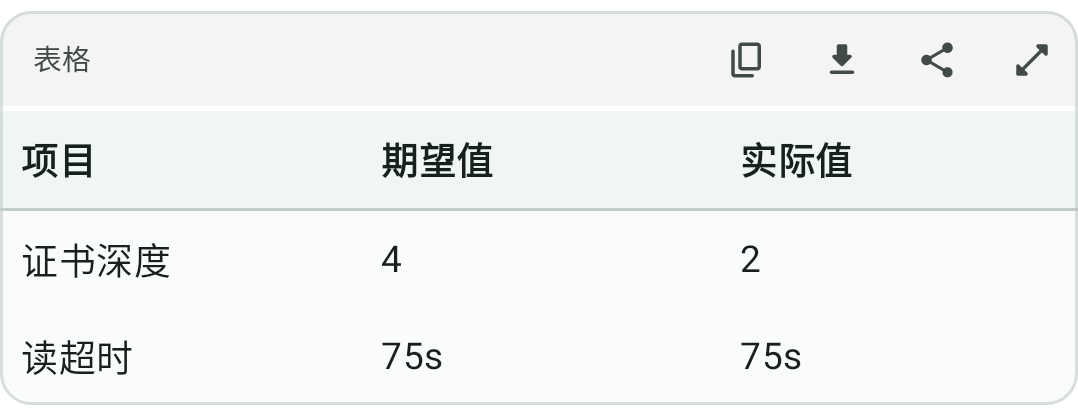
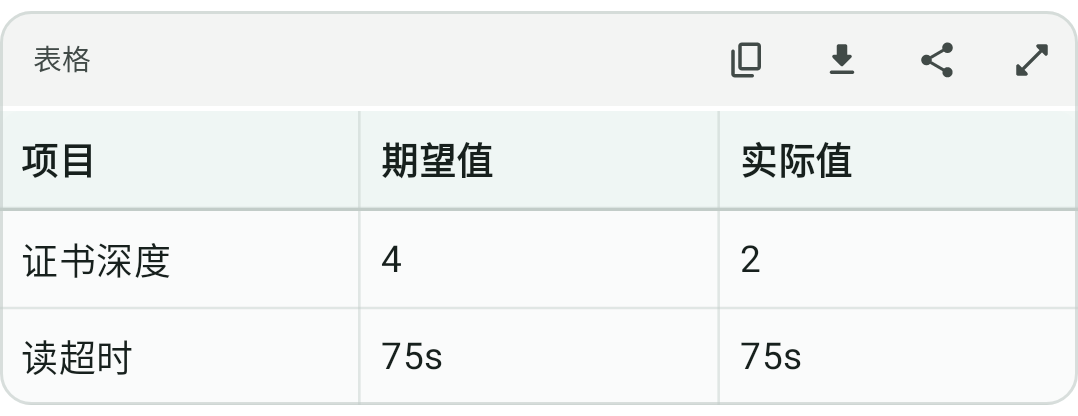
fix(android): table viewer rotation/immersive; grid lines; send-driven scroll
- Landscape toggle no longer bounces back with auto-rotate off: the
  orientation reset moved from the composition-teardown hook (which also
  fired during rotation-triggered Activity recreation) to the explicit
  close paths only. Verified on-device with rotation locked: forced
  landscape holds, and closing hands orientation back to the sensor.
- Fullscreen viewer is genuinely fullscreen: edge-to-edge dialog window
  (decorFitsSystemWindows = false) plus immersive system-bar hiding on
  the DIALOG's own window (hiding them on the Activity window does
  nothing while the dialog holds focus); bars return transiently by edge
  swipe and automatically on close.
- Tables draw a faint full grid (outlineVariant @ 45%): per-row bottom
  hairline plus column separators at cell boundaries (cell count read
  from the GFM row node), so wrapped multi-line cells read unambiguously.
- Send-to-bottom is now driven by the send action itself (a tick bumped
  in submit()) instead of inferring "user sent" from the last user
  turn's content-derived render key — background history reconciliation
  (text normalization, image hydration, occurrence shifts) could nudge
  that key and yank a reader mid-history to the bottom.

Changed region(s): [[0.0, 0.7188, 1.0, 0.75]]

diff --git a/android/app/src/main/java/com/hermes/client/ui/chat/ChatComponents.kt b/android/app/src/main/java/com/hermes/client/ui/chat/ChatComponents.kt
@@ -22,6 +22,9 @@ import androidx.compose.foundation.layout.height
 import androidx.compose.foundation.layout.padding
 import androidx.compose.foundation.layout.widthIn
 import androidx.compose.foundation.layout.wrapContentSize
+import androidx.compose.foundation.layout.windowInsetsPadding
+import androidx.compose.foundation.layout.WindowInsets
+import androidx.compose.foundation.layout.displayCutout
 import androidx.compose.foundation.layout.width
 import androidx.compose.foundation.lazy.LazyColumn
 import androidx.compose.foundation.lazy.itemsIndexed
@@ -90,6 +93,7 @@ import kotlinx.coroutines.launch
 import androidx.compose.ui.Alignment
 import androidx.compose.ui.Modifier
 import androidx.compose.ui.draw.clip
+import androidx.compose.ui.draw.drawBehind
 import androidx.compose.ui.draw.drawWithContent
 import androidx.compose.ui.graphics.layer.drawLayer
 import androidx.compose.ui.draw.alpha
@@ -169,7 +173,7 @@ fun ChatMessageList(
     onFileOpen: (ChatFile) -> Unit = {},
     onFileShare: (ChatFile) -> Unit = {},
     highlightIndex: Int? = null,
-    externalScrollActive: Boolean = false,
+    scrollToBottomTick: Long = 0L,
     onBlankAreaTap: () -> Unit = {},
 ) {
     val language = LocalAppLanguage.current
@@ -276,19 +280,13 @@ fun ChatMessageList(
         }
     }
 
-    // Sending always returns to the bottom, even from deep in history — it is the user's own
-    // action. Keyed on the newest USER turn's stable render key, not raw list size, so history
-    // reconciliation and session-resume backfill cannot fake it.
-    val lastTurnKey = displayKeys.lastOrNull()
-    val lastTurnIsUser = displayMessages.lastOrNull()?.role == Role.USER
-    var followedUserTurnKey by remember(sessionId) { mutableStateOf<String?>(null) }
-    LaunchedEffect(lastTurnKey, lastTurnIsUser) {
-        if (!lastTurnIsUser || lastTurnKey == null) return@LaunchedEffect
-        val previous = followedUserTurnKey
-        followedUserTurnKey = lastTurnKey
-        if (previous != null && previous != lastTurnKey && !externalScrollActive) {
-            bottomRequests.trySend(Unit)
-        }
+    // Sending returns to the bottom because the USER pressed send — driven directly by that
+    // action via [scrollToBottomTick]. The previous inference (watching the last user turn's
+    // content-derived render key) misfired whenever background history reconciliation nudged
+    // that key (text normalization, image metadata hydration, occurrence shifts), yanking a
+    // reader mid-history to the bottom. Data changes must never steal the viewport.
+    LaunchedEffect(scrollToBottomTick) {
+        if (scrollToBottomTick > 0L) bottomRequests.trySend(Unit)
     }
 
     // Search-highlight navigation, mapped from turn order to the reversed list order. The size is
@@ -1206,15 +1204,32 @@ private fun chatMarkdownComponents(onOpenTableFullscreen: (String) -> Unit): Mar
 /** The styled table body shared by the in-chat card and the fullscreen dialog. */
 @Composable
 private fun StyledMarkdownTable(content: String, node: org.intellij.markdown.ast.ASTNode, style: TextStyle) {
+    // Faint full grid (WorkBuddy-style): light enough to stay quiet, present enough that a
+    // wrapped multi-line cell reads unambiguously as one column.
+    val gridColor = MaterialTheme.colorScheme.outlineVariant.copy(alpha = 0.45f)
+    fun Modifier.tableGrid(cells: Int, drawTop: Boolean = false): Modifier = drawBehind {
+        val stroke = 1.dp.toPx()
+        if (drawTop) drawLine(gridColor, Offset(0f, 0f), Offset(size.width, 0f), stroke)
+        drawLine(gridColor, Offset(0f, size.height), Offset(size.width, size.height), stroke)
+        if (cells > 1) {
+            val cellWidth = size.width / cells
+            for (i in 1 until cells) {
+                val x = cellWidth * i
+                drawLine(gridColor, Offset(x, 0f), Offset(x, size.height), stroke)
+            }
+        }
+    }
+    fun cellCount(rowNode: org.intellij.markdown.ast.ASTNode): Int =
+        rowNode.children.count { it.type == org.intellij.markdown.flavours.gfm.GFMTokenTypes.CELL }.coerceAtLeast(1)
     com.mikepenz.markdown.compose.elements.MarkdownTable(
         content,
         node,
         style = style,
         headerBlock = { c, header, tableWidth, s ->
             Box(
-                Modifier.background(
-                    MaterialTheme.colorScheme.surfaceVariant.copy(alpha = 0.65f),
-                ),
+                Modifier
+                    .background(MaterialTheme.colorScheme.surfaceVariant.copy(alpha = 0.65f))
+                    .tableGrid(cellCount(header)),
             ) {
                 com.mikepenz.markdown.compose.elements.MarkdownTableHeader(
                     c,
@@ -1228,13 +1243,15 @@ private fun StyledMarkdownTable(content: String, node: org.intellij.markdown.ast
             }
         },
         rowBlock = { c, row, tableWidth, s ->
-            com.mikepenz.markdown.compose.elements.MarkdownTableRow(
-                c,
-                row,
-                tableWidth,
-                s,
-                maxLines = Int.MAX_VALUE,
-            )
+            Box(Modifier.tableGrid(cellCount(row))) {
+                com.mikepenz.markdown.compose.elements.MarkdownTableRow(
+                    c,
+                    row,
+                    tableWidth,
+                    s,
+                    maxLines = Int.MAX_VALUE,
+                )
+            }
         },
     )
 }
@@ -1423,28 +1440,48 @@ internal fun TableFullscreenDialog(raw: String, onDismiss: () -> Unit) {
     var exportAction by remember { mutableStateOf<TableExportAction?>(null) }
     val isLandscape =
         LocalConfiguration.current.orientation == android.content.res.Configuration.ORIENTATION_LANDSCAPE
-    // Leaving the viewer always hands orientation back to the sensor, including dismiss-by-back
-    // while in forced landscape.
-    androidx.compose.runtime.DisposableEffect(Unit) {
-        onDispose {
-            activity?.requestedOrientation =
-                android.content.pm.ActivityInfo.SCREEN_ORIENTATION_UNSPECIFIED
-        }
+    // Orientation is reset ONLY on the explicit close paths (button / back-dismiss). The previous
+    // composition-teardown hook also fired during the rotation-triggered Activity recreation and
+    // yanked a freshly forced landscape straight back to portrait when auto-rotate was off.
+    fun close() {
+        activity?.requestedOrientation =
+            android.content.pm.ActivityInfo.SCREEN_ORIENTATION_UNSPECIFIED
+        onDismiss()
     }
     Dialog(
-        onDismissRequest = onDismiss,
-        properties = DialogProperties(usePlatformDefaultWidth = false),
+        onDismissRequest = { close() },
+        properties = DialogProperties(usePlatformDefaultWidth = false, decorFitsSystemWindows = false),
     ) {
+        // Immersive while viewing: the DIALOG owns its own window (hiding bars on the Activity
+        // window does nothing while the dialog holds focus). Swipe from an edge brings them
+        // back transiently; closing the dialog restores them automatically with the window.
+        val dialogView = androidx.compose.ui.platform.LocalView.current
+        LaunchedEffect(Unit) {
+            val window = (dialogView.parent as? androidx.compose.ui.window.DialogWindowProvider)?.window
+                ?: return@LaunchedEffect
+            val controller = androidx.core.view.WindowCompat.getInsetsController(window, dialogView)
+            controller.systemBarsBehavior =
+                androidx.core.view.WindowInsetsControllerCompat.BEHAVIOR_SHOW_TRANSIENT_BARS_BY_SWIPE
+            controller.hide(androidx.core.view.WindowInsetsCompat.Type.systemBars())
+        }
         Surface(
             color = MaterialTheme.colorScheme.background,
             modifier = Modifier.fillMaxSize(),
         ) {
-            Column(Modifier.fillMaxSize()) {
+            Column(
+                Modifier
+                    .fillMaxSize()
+                    // Edge-to-edge window: keep interactive chrome clear of cutouts/bars while the
+                    // background paints the full screen.
+                    .windowInsetsPadding(
+                        androidx.compose.foundation.layout.WindowInsets.displayCutout,
+                    ),
+            ) {
                 Row(
                     Modifier.fillMaxWidth().padding(horizontal = 8.dp, vertical = 6.dp),
                     verticalAlignment = Alignment.CenterVertically,
                 ) {
-                    TextButton(onClick = onDismiss) { Text(localized(language, "关闭", "Close")) }
+                    TextButton(onClick = { close() }) { Text(localized(language, "关闭", "Close")) }
                     Text(
                         localized(language, "表格", "Table"),
                         style = MaterialTheme.typography.titleMedium,

diff --git a/android/app/src/main/java/com/hermes/client/ui/chat/ChatScreen.kt b/android/app/src/main/java/com/hermes/client/ui/chat/ChatScreen.kt
@@ -171,6 +171,8 @@ fun ChatScreen(
     // saveable) because anything living inside the markdown tree vanishes during the re-parse
     // window on rotation, taking a dialog hosted there down with it.
     var fullscreenTableRaw by rememberSaveable(sessionId) { mutableStateOf<String?>(null) }
+    // Monotonic signal: bumped by submit(); the message list scrolls to bottom when it changes.
+    var sendToBottomTick by remember(sessionId) { mutableStateOf(0L) }
     val commands by vm.commands.collectAsStateWithLifecycle()
     val pathItems by vm.pathItems.collectAsStateWithLifecycle()
     val speaking by vm.speaking.collectAsStateWithLifecycle()
@@ -254,7 +256,9 @@ fun ChatScreen(
         vm.send(draft)
         draft = ""
         // Sending hands the stage to the run: drop the keyboard and the expanded composer so
-        // the viewport shows the new instruction and what happens next.
+        // the viewport shows the new instruction and what happens next. The scroll-to-bottom is
+        // driven by THIS action (tick), never inferred from data changes.
+        sendToBottomTick = System.currentTimeMillis()
         collapseComposer()
     }
 
@@ -1024,7 +1028,7 @@ fun ChatScreen(
                         sessionId = sessionId,
                         listState = listState,
                         highlightIndex = highlightIndex,
-                        externalScrollActive = searchOpen,
+                        scrollToBottomTick = sendToBottomTick,
                         isGenerating = state.isGenerating,
                         onEditResend = { text -> draft = text; focusRequester.requestFocus() },
                         onRegenerate = { vm.regenerate() },
